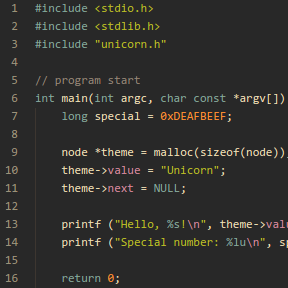
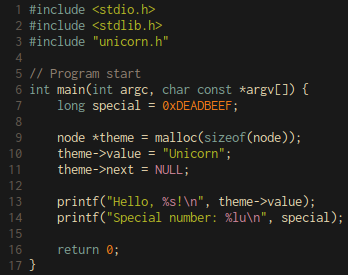
add c test file, update scrot, add vim theme

diff --git a/test.c b/test.c
@@ -1,0 +1,18 @@
+#include <stdio.h>
+#include <stdlib.h>
+#include "unicorn.h"
+
+// Program start
+int main(int argc, char const *argv[]) {
+    long special = 0xDEADBEEF;
+
+    node *theme = malloc(sizeof(node));
+    theme->value = "Unicorn";
+    theme->next = NULL;
+
+    printf("Hello, %s!\n", theme->value);
+    printf("Special number: %lu\n", special);
+
+    return 0;
+}
+
